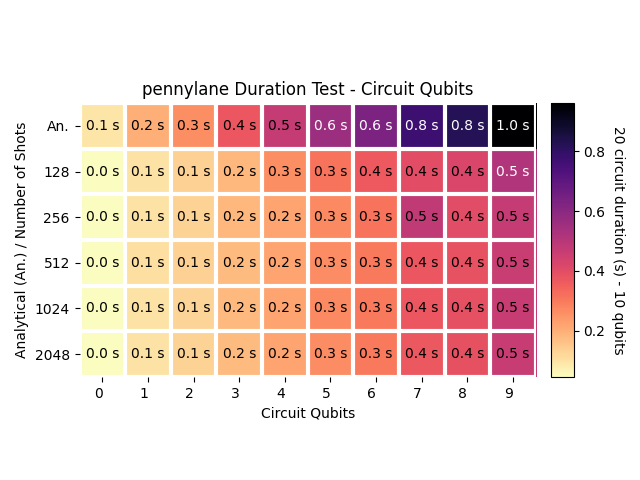
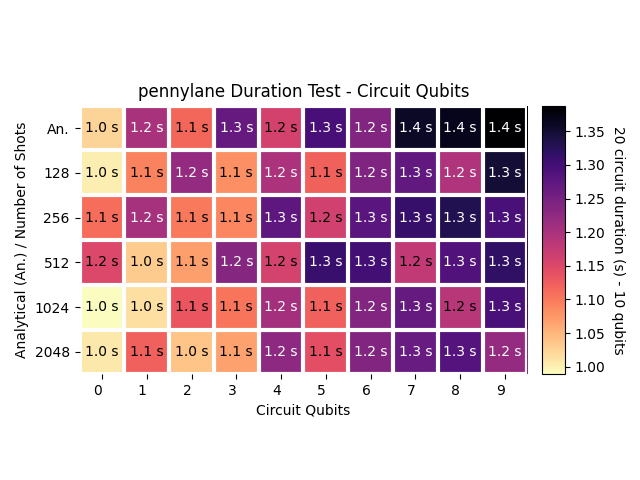
update README.md, now using the same circuit for all frameworks, cirq is not working

diff --git a/classes.py b/classes.py
@@ -1,9 +1,15 @@
 import pennylane as qml
 from pennylane import numpy as np
+
 import qiskit as q
 from qiskit.circuit.random import random_circuit
+
+
 import cirq
+from cirq.contrib.qasm_import import circuit_from_qasm
+
 import config
+import utils
 
 class duration_pennylane:   
     def __init__(self):
@@ -11,42 +17,47 @@ class duration_pennylane:
         self.evals = config.evals
         self.qubits = config.qubits
         self.depth = config.depth
+        self.consistent_circuit = config.consistent_circuit
         
     def generate_circuit(self, shots):
+        if self.consistent_circuit == False:
+            self.__generate_pennylane_circuit(shots)
+        
+        else:
+            self.dev = qml.device("default.qubit", wires=self.qubits, shots=shots)
+
+            def create_circuit():
+                circuit = qml.from_qasm(utils.get_random_qasm_circuit(self.qubits, self.depth, self.seed))
+                return [qml.expval(qml.PauliZ(i)) for i in range(self.qubits)]
+
+                
+            qnode = qml.QNode(create_circuit, self.dev)
+            self.qcs = []
+            for i in range(self.evals):
+                self.qcs.append(qnode)
+
+    def __generate_pennylane_circuit(self, shots):
         self.dev = qml.device("default.qubit", wires=self.qubits, shots=shots)
         self.w = np.random.rand(self.depth, self.qubits)
-
-        """    
-        @qml.qnode(self.dev)        
-        def create_circuit(w):
-            qml.RandomLayers(weights=w, wires=range(self.qubits))
-            return [qml.expval(qml.PauliZ(i)) for i in range(self.qubits)]
-        w = self.w
-
-        for i in self.evals:
-            self.qcs.append(create_circuit(w))
-        return create_circuit(w) 
-        """             
-        """ def create_circuit(w):
-            qml.RandomLayers(weights=w, wires=range(self.qubits))
-            return [qml.expval(qml.PauliZ(i)) for i in range(self.qubits)]
-        qnode = qml.QNode(create_circuit, self.dev)
-        w = self.w
-        self.qcs = []
-        for i in range(self.evals):
-            self.qcs.append(create_circuit(w))
-        return qnode(w) """
         
         def create_circuit(w):
             qml.RandomLayers(weights=w, wires=range(self.qubits))
             return [qml.expval(qml.PauliZ(i)) for i in range(self.qubits)]
+
         qnode = qml.QNode(create_circuit, self.dev)
         w = self.w
         self.qcs = []
         for i in range(self.evals):
             self.qcs.append(qnode)
-        
+    
     def execute(self, shots):
+        if self.consistent_circuit == False:
+           self.__execute_specific_circuit() 
+        else:
+            for circuit in self.qcs:
+                circuit()  
+
+    def __execute_specific_circuit(self):
         for circuit in self.qcs:
             circuit(self.w)
 
@@ -58,8 +69,26 @@ class duration_qiskit:
         self.evals = config.evals
         self.qubits = config.qubits
         self.depth = config.depth
+        self.consistent_circuit = config.consistent_circuit
 
     def generate_circuit(self, shots):
+        if self.consistent_circuit == False:
+            self.__generate_qiskit_circuit(shots)
+        else:
+            if shots == None:
+                self.backend = q.Aer.get_backend("statevector_simulator")
+            else:
+                self.backend = q.Aer.get_backend("qasm_simulator")
+
+            self.qcs = []
+            for e in range(self.evals):
+                # welchen Wert haben die qubits am Anfang?
+                qasm_circuit = utils.get_random_qasm_circuit(self.qubits, self.depth, self.seed)
+                qc = q.QuantumCircuit.from_qasm_str(qasm_circuit)
+                # warum wird hier schon gemessen?
+                self.qcs.append(qc)
+        
+    def __generate_qiskit_circuit(self, shots):
         if shots == None:
             self.backend = q.Aer.get_backend("statevector_simulator")
         else:
@@ -83,8 +112,21 @@ class duration_cirq():
         self.evals = config.evals
         self.qubits = config.qubits
         self.depth = config.depth
+        self.consistent_circuit = config.consistent_circuit
 
     def generate_circuit(self, shots):
+        if self.consistent_circuit == False:
+            self.__generate_cirq_circuit()
+        else:
+            self.qcs = []
+            for i in range(self.evals):
+                qasm_circuit = utils.get_random_qasm_circuit(self.qubits, self.depth, self.seed)
+                circuit = circuit_from_qasm(qasm_circuit)
+                circuit.append(cirq.measure(cirq.NamedQubit.range(self.qubits, prefix=''),key='result'))
+                self.qcs.append(circuit)        
+            self.simulator = cirq.Simulator()
+    
+    def __generate_cirq_circuit(self):
         self.qcs = []
         for i in range(self.evals):
             circuit = cirq.testing.random_circuit(qubits = self.qubits, n_moments = self.depth, random_state = self.seed, op_density=0.5)

diff --git a/test_duration.py b/test_duration.py
@@ -16,7 +16,8 @@ seed = config.seed
 evals = config.evals
 qubits = config.qubits
 depth = config.depth
-framework = eval("classes.duration_" + user_input +"()")
+framework = getattr(classes, "duration_" + user_input)()
+#framework = eval("classes.duration_" + user_input +"()")
 # -----------------------------------------------------
 
 duration_matrix_depth = np.zeros((len(shots_list), depth))

diff --git a/utils.py b/utils.py
@@ -1,0 +1,11 @@
+#import pennylane as qml
+#from pennylane import numpy as np
+#import qiskit as q
+from qiskit.circuit.random import random_circuit
+from qiskit.circuit import QuantumCircuit
+import cirq
+#import config
+
+def get_random_qasm_circuit(qubits, depth, seed):
+    qc = random_circuit(qubits, depth, max_operands=3, measure=True, seed=seed)
+    return qc.qasm()

diff --git a/config.py b/config.py
@@ -1,7 +1,6 @@
-import classes
-
 shots_list = [None, *[2**s for s in range(7, 12)]]
 seed = 10000
 evals = 20
 qubits = 10
 depth = 10
+consistent_circuit = True

diff --git a/README.md b/README.md
@@ -1,37 +1,69 @@
-# Qiskit Circuit Runtime Evaluation
+# Circuit Runtime Evaluation
 
-Simple experiments evaluating the duration of circuit execution using either the statevector or qasm backend for evaluation of
+Simple experiments evaluating the duration of circuit execution using different frameworks for evaluation of
 - no shots (None): analytical evaluation of the cirucuit -> statevector backend is used
 - [2**7..2**12] shots: measurements are taken -> qasm backend
 Plots in "plots/duration_*.png" show the results either with varying circuit depth or width (num. of qubits).
-Created using "qiskit-test_duration*.py".
+Created using "test_duration.py".
 
 ## Results
 
-- Qubits: 2
+- Framework: qiskit
+- Qubits: 10
 - Depth: [1..10]
 - Evals: 20
 - Shots: [None, 2**7, .., 2**10]
 
-![](plots/duration_depth_2_10.png)
+![](plots/qiskit_duration_depth_10_10.png)
 
 ---
 
+- Framework: qiskit
 - Qubits: [1..10]
-- Depth: 5
+- Depth: 10
 - Evals: 20
 - Shots: [None, 2**7, .., 2**10]
 
-![](plots/duration_qubits_10_5.png)
+![](plots/qiskit_duration_qubits_10_10.png)
 
 ---
 
-- Qubits: 2
-- Depth: 5
-- Evals: [1,10, ..,100]
+- Framework: pennylane
+- Qubits: 10
+- Depth: [1..10]
+- Evals: 20
 - Shots: [None, 2**7, .., 2**10]
 
-![](plots/duration_multiprocessing_2_5.png)
+![](plots/pennylane_duration_depth_10_10.png)
+
+---
+
+- Framework: qiskit
+- Qubits: [1..10]
+- Depth: 10
+- Evals: 20
+- Shots: [None, 2**7, .., 2**10]
+
+![](plots/pennylane_duration_qubits_10_10.png)
+
+---
+- Framework: cirq
+- Qubits: 10
+- Depth: [1..10]
+- Evals: 20
+- Shots: [None, 2**7, .., 2**10]
+
+![](plots/cirq_duration_depth_10_10.png)
+
+---
+
+- Framework: cirq
+- Qubits: [1..10]
+- Depth: 10
+- Evals: 20
+- Shots: [None, 2**7, .., 2**10]
+
+![](plots/cirq_duration_qubits_10_10.png)
 
 ---
 
